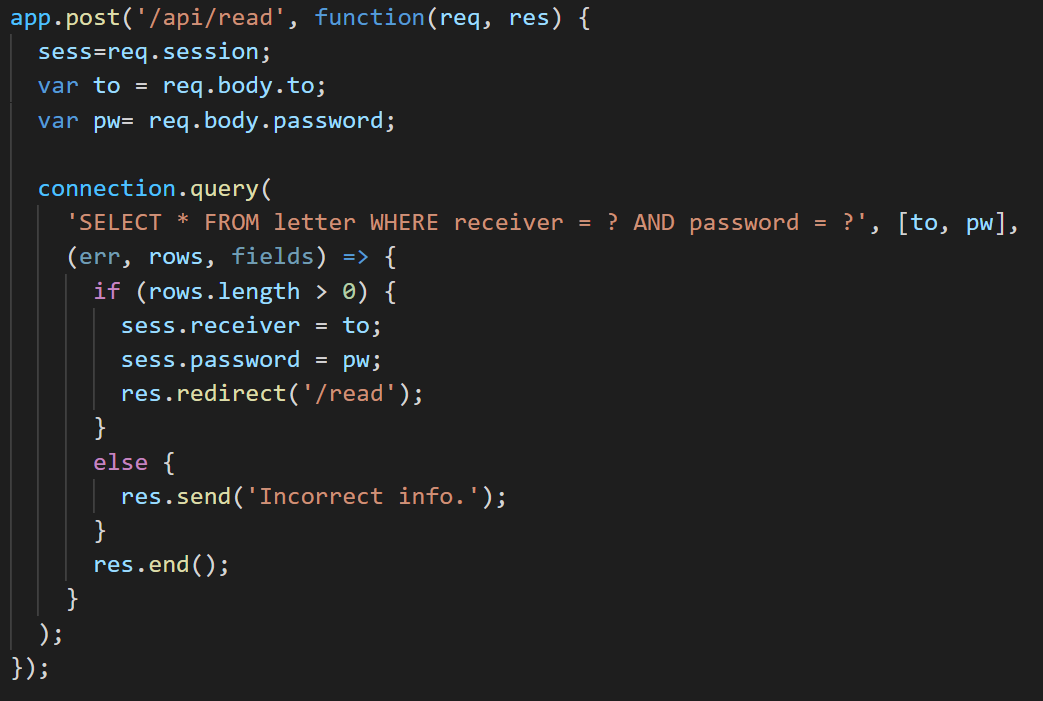
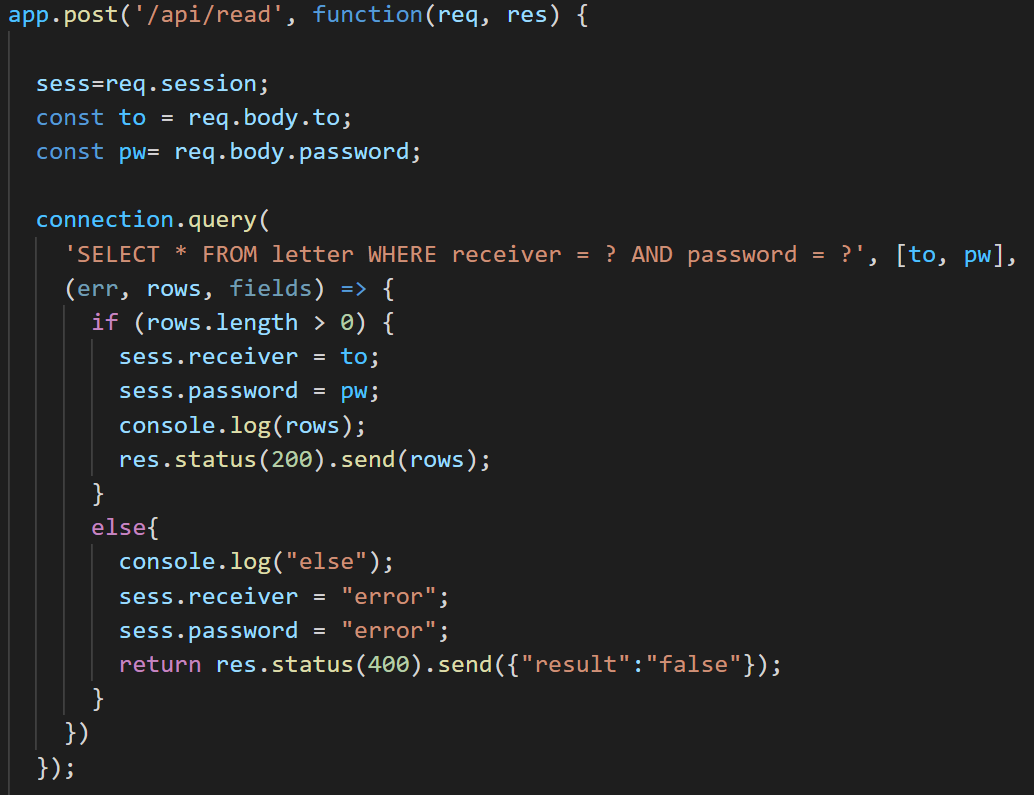
ready to be deployed

diff --git a/client/src/Home.js b/client/src/Home.js
@@ -7,56 +7,34 @@ export const Home = () => {
   const [to, setTo] = useState("")
   const [password, setPassword] = useState("")
   const history = useHistory()  
-  
-  const read = () => {history.push("/read") }
-  const error = () => {alert("Incorrect.");}
 
-/*
-  const submit = () => {
-    return new Promise((resolve,reject)=>{
-    fetch("/api/read", {            
-        method: "POST", 
-        mode: 'cors',     
-        headers: { 
-            "Content-type": "application/json"
-        },
-        body: JSON.stringify({ 
-          to: to, 
-          password: password               
-      })        
-    }).then(res => console.log(res)) 
-  }) 
+  const submit = ()=> {      
+    callApi2()  
+    .then(resp => {
+      if(resp.status===(200)){
+        history.push("/read")
+      }else{
+      alert("incorrect")
+      }
+    })
   }
-*/
 
-const submit = ()=> {     
-  
-  callApi2()    
-  .then(resp => {console.log(resp)})
-}
-
-const callApi2 = async () => {
-  const response = await fetch("/api/read", {            
-    method: "POST", 
-    mode: 'cors',     
-    headers: { 
-        "Content-type": "application/json"
-    },
-    body: JSON.stringify({ 
-      to: "receiver", 
-      password: "2"               
-  })        
-})
-
-  const body = await response.json();
-  if (response.status !== 200) throw Error(body.message);
-  return body;
-};
+  const callApi2 = async () => {
+    return await fetch("/api/read", {            
+      method: "POST", 
+      mode: 'cors',     
+      headers: { 
+          "Content-type": "application/json"
+      },
+      body: JSON.stringify({ 
+        to: to, 
+        password: password               
+      })        
+    })
+  };
 
 const about = () =>{history.push("/about")}
-
-
-    return(
+   return(
              
         <div className="App">
         <img src="img/mail1.jpg" width="10%" alt="mail"/>
@@ -67,9 +45,8 @@ const about = () =>{history.push("/about")}
           <input value={to} onChange={(event)=>setTo(event.target.value)} type="text" /><br />
           PW &nbsp;
           <input value={password} onChange={(event)=>setPassword(event.target.value)}type="password" /><br />
-          <button type="button" className="submit" onClick={submit}> </button>   
-          </div>
-          
+          <button type="button" className="button" onClick={submit}>submit</button>   
+          </div>          
           <p onClick={about} className="test">
             ABOUT
           </p> 

diff --git a/server.js b/server.js
@@ -30,38 +30,58 @@ const connection = mysql.createConnection({
 
 connection.connect();
 /*
-app.post('/login', jsonParser, function (req, res) {
-  console.log(req.body);
-  res.send('welcome, ' + req.body.to)
-})
+app.post('/api/read', function(req, res) {
+  sess=req.session;
+  var to = req.body.to; 
+  var pw= req.body.password;
+  console.log("server"+to+pw);
+
+	connection.query(
+    'SELECT * FROM letter WHERE receiver = ? AND password = ?', [to, pw],
+    (err, rows, fields) => {      
+      if (rows.length > 0) {
+        sess.receiver = to;
+        sess.password = pw; 			 
+        console.log("length>0");
+        console.log("rows = " + rows);
+        return res.send(rows)
+      }
+      else {				
+        console.log("else"); 
+        sess.receiver = "error";
+        sess.password = "error";
+        return res.send("error");               
+      }	
+    }
+  );	
+  
+
+});
 */
 app.post('/api/read', function(req, res) {
  
   sess=req.session;
   const to = req.body.to; 
-  const pw= req.body.password;
-  console.log("server"+to+pw);
-  console.log(req.body);
+  const pw= req.body.password;  
  
 	connection.query(
     'SELECT * FROM letter WHERE receiver = ? AND password = ?', [to, pw],    
-    (err, rows, fields) => {        
-      
+    (err, rows, fields) => {     
       if (rows.length > 0) {
         sess.receiver = to;
         sess.password = pw; 
         console.log(rows); 
-        res.send(rows);                     
+        res.status(200).send(rows);                     
       }
       else{      
         console.log("else"); 
         sess.receiver = "error";
         sess.password = "error";
-        return res.status(400).send("false");              
+        return res.status(400).send({"result":"false"});              
       }      
-});
+    })
+  });      
 
-});
 
 app.get('/api/letter', (req, res) => {
   sess=req.session;

diff --git a/client/src/Read.js b/client/src/Read.js
@@ -5,37 +5,17 @@ import {Letter} from "./components/letter"
 export const Read = () => {    
   const [letter, setLetter] = useState("");
   useEffect(() => {
-      callApi2()    
+      callApi()    
        .then(resp => setLetter(resp))
   });
 
-  const callApi2 = async () => {
-    const response = await fetch("/api/read", {            
-      method: "POST", 
-      mode: 'cors',     
-      headers: { 
-          "Content-type": "application/json"
-      },
-      body: JSON.stringify({ 
-        to: "receiver", 
-        password: "2"               
-    })        
-  })
-
-
-    
-    const body = await response.json();
-    if (response.status !== 200) throw Error(body.message);
-    return body;
-  };
-/*
    const callApi = async () => {
       const response = await fetch('/api/letter');
       const body = await response.json();
       if (response.status !== 200) throw Error(body.message);
       return body;
     };
-*/
+
       return(
         <div>            
           {letter ? letter.map(c=> {

diff --git a/client/src/About.js b/client/src/About.js
@@ -7,12 +7,12 @@ export const About = () => {
             <h1>Tech</h1>
             <div className="about">
             <div className="tech">
-              <p className="title">Development</p>
-              <div className="blue"> React, Node.js, Fetch API, MySQl (Amazon RDS)</div>
+              <p className="blue">Development</p>
+              <div className="title"> React, Node.js, Fetch API, MySQl (Amazon RDS)</div>
               <img src="img/client.png" alt="React" height="200px" />
                 <img src="img/server.png" alt="Node.js" height="200px" /><br/>
-              <p className="title">Deployment</p>
-              <div className="blue"> 
+              <p className="blue">Deployment</p>
+              <div className="title"> 
               (1) hosting: AWS 
               (2) <a rel="GitHub" href="https://github.com/A-Line-of-Code/MailBox.git" target="_blank">Docker deployment files</a><br/>
               </div>

diff --git a/client/src/App.css b/client/src/App.css
@@ -6,8 +6,8 @@ body{
   background: lightyellow;
   font-family: 'Montserrat', sans-serif;
   font-size: 50px;
+  
 }
-
 
 .app-title{
   text-align: center;
@@ -23,20 +23,26 @@ body{
   background: #282c34;
 }
 
-input[type=submit]{
-  /*background-color: #4CAF50;*/
-  background-color:white;
-  border: 3px solid powderblue;
-  color: powderblue;
+input{    
   padding: 7px;
-  text-decoration: none;
-  margin: 4px 2px;
-  cursor: pointer;
-  font-family: 'Montserrat', sans-serif;
-  font-weight: 900;
+  margin: 4px 2px;    
 }
 
 .test{  
   color: #282c34;
   cursor: pointer;
+}
+.button{
+  background-color: white; /* Green */
+  border: 3px solid powderblue;
+  border-radius: 25px;
+  font-family: 'Montserrat', sans-serif;
+  color: powderblue;
+  padding: 5px 10px;
+  text-align: center;
+  text-decoration: none;  
+  font-size: 16px;
+  cursor: pointer;
+  font-weight: 900;
+  margin: 4px 2px; 
 }

diff --git a/client/src/About.css b/client/src/About.css
@@ -1,7 +1,8 @@
 body{
     background: lightyellow;
     font-family: "Lucida Sans Unicode", sans-serif;    
-    font-size: 15px;
+    font-size: 20px;
+    
   }
  
   h1, .title{
@@ -9,7 +10,7 @@ body{
   }
   
   .blue{
-    color: powderblue;
+    color: powderblue;    
   }
   .app-title{
     text-align: center;
